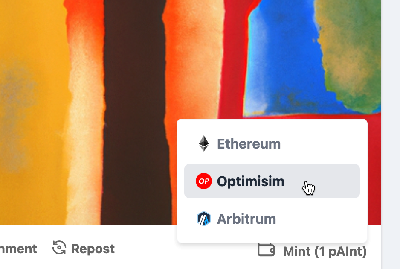
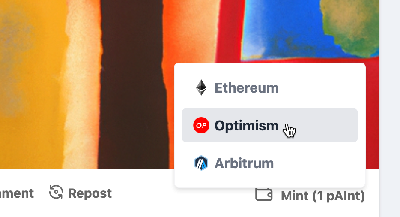
fix typo

diff --git a/server/hosting/js/dapp.js b/server/hosting/js/dapp.js
@@ -1585,7 +1585,7 @@ function mintDropDownHTML(data) {
                         class="mint flex items-center px-3 py-2 hover:bg-gray-200 hover:text-gray-800 rounded-md dark:hover:bg-gray-800">
                         <img
                             src="https://goerli-optimism.etherscan.io/images/svg/brands/main.svg" class="chain-icon" />
-                        Optimisim
+                        Optimism
                     </a>
                 </li>
                 <li>

diff --git a/server/hosting/index.html b/server/hosting/index.html
@@ -617,7 +617,7 @@
 
     <script src="https://cdnjs.cloudflare.com/ajax/libs/moment.js/2.29.1/moment.min.js"></script>
 
-    <script src="/js/dapp.js?v=224"></script>
+    <script src="/js/dapp.js?v=225"></script>
 
 </body>
 
